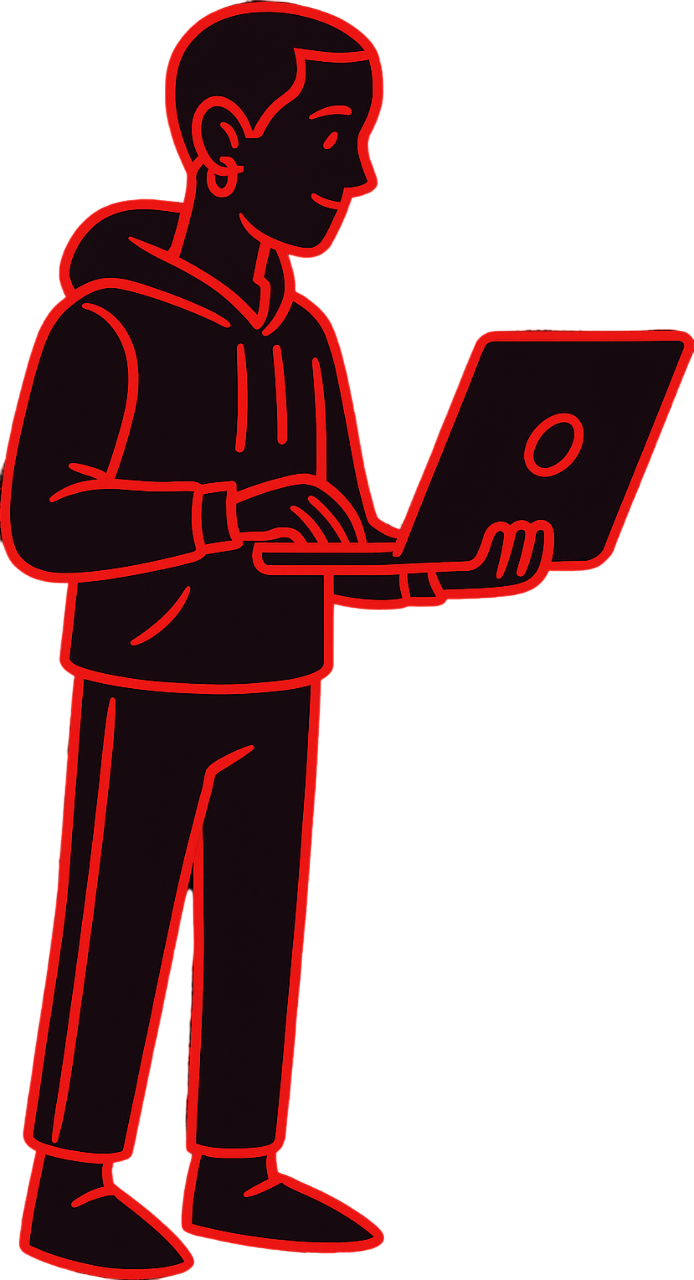
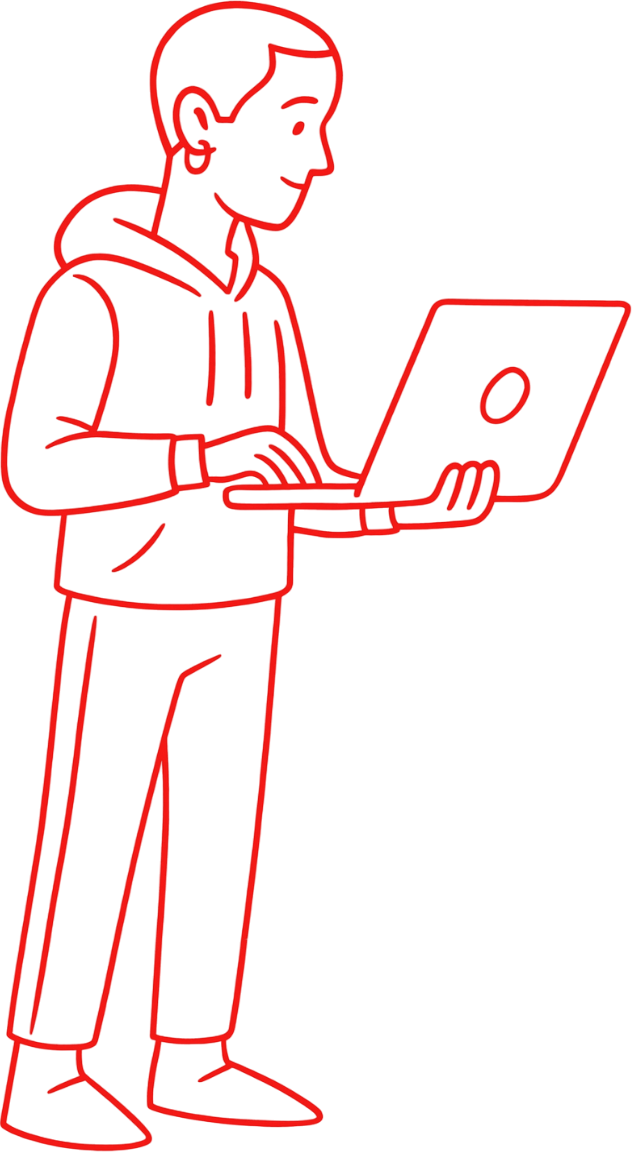
More Working in Hero section

diff --git a/src/css/style.css b/src/css/style.css
@@ -159,7 +159,7 @@
     flex-direction: column;
     align-items: center;
     gap: 30px;
-    width: 450px;
+    width: 600px;
 }
 
 .hero .content .headline,
@@ -174,7 +174,7 @@
 }
 
 .hero .content .text {
-    font-size: 15px;
+    font-size: 14px;
     color: #fff;
 }
 
@@ -189,13 +189,19 @@
     transition: .9s ease-in-out;
 }
 
-.float {
+.hero .img-left{
+    transform: rotateY(180deg);
+    width: 264px;
+    transition: .9s ease-in-out;
+}
+
+.float:hover{
     transition: transform 0.3s ease-in-out;
     animation: float 2.8s ease-in-out infinite;
     filter: drop-shadow(0 0 10px #D94444);
 }
 
-@keyframes float {
+@keyframes float{
 
     0%,
     100% {
@@ -206,3 +212,21 @@
         transform: translateY(-16px);
     }
 }
+
+.float-left:hover{
+    transition: transform 0.3s ease-in-out;
+    animation: float 2.8s ease-in-out infinite;
+    filter: drop-shadow(0 0 10px #D94444);
+}
+
+/* @keyframes float-left{
+
+    0%,
+    100% {
+        transform: translateY(0px) rotateY(180deg);
+    }
+
+    50% {
+        transform: translateY(-16px) rotateY(180deg);
+    }
+} */

diff --git a/index.html b/index.html
@@ -34,7 +34,7 @@
 
     <main class="main">
         <section class="hero">
-            <img src="./src/img/woman-programmer.png" alt="" class="img float">
+            <img src="./src/img/man-programmer.png" alt="" class="img-left float-left">
             <div class="content">
                 <h1 class="headline">Conheça nossos alunos</h1>
                 <p class="text">Uma nova geração de desenvolvedores está pronta para transformar ideias em soluções
@@ -42,7 +42,7 @@
                     responsabilidade para entregar resultados que superam expectativas. Aposte no futuro, hoje.</p>
                 <button class="btn">Conheça os Devs</button>
             </div>
-            <img src="./src/img/man-programmer.png" alt="" class="img float">
+            <img src="./src/img/woman-programmer.png" alt="" class="img float">
         </section>
     </main>
 
